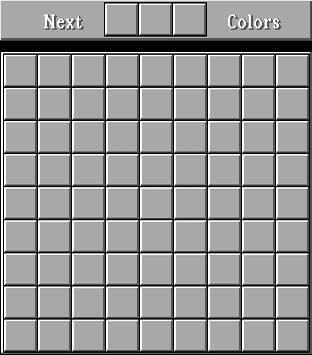
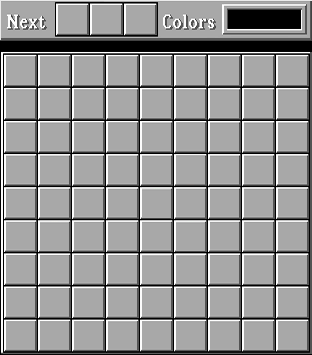
Lines (completed)

diff --git a/arrange/scripts/lines.js b/arrange/scripts/lines.js
@@ -135,8 +135,14 @@ Dagaz.Model.BuildDesign = function(design) {
     design.addPosition("g1", [0, 0, 0, 0, 1, -1, -8, -10, -9]);
     design.addPosition("h1", [0, 0, 0, 0, 1, -1, -8, -10, -9]);
     design.addPosition("i1", [0, 0, 0, 0, 0, -1, 0, -10, -9]);
+    design.addPosition("D6", [0, 0, 0, 0, 0, 0, 0, 0, 0]);
+    design.addPosition("D5", [0, 0, 0, 0, 0, 0, 0, 0, 0]);
+    design.addPosition("D4", [0, 0, 0, 0, 0, 0, 0, 0, 0]);
+    design.addPosition("D3", [0, 0, 0, 0, 0, 0, 0, 0, 0]);
+    design.addPosition("D2", [0, 0, 0, 0, 0, 0, 0, 0, 0]);
+    design.addPosition("D1", [0, 0, 0, 0, 0, 0, 0, 0, 0]);
 
-    design.addZone("preview-zone", 1, [0, 1, 2]);
+    design.addZone("preview-zone", 1, [0, 1, 2, 84, 85, 86, 87, 88, 89]);
     design.addZone("preview-1", 1, [0]);
     design.addZone("preview-2", 1, [1]);
     design.addZone("preview-3", 1, [2]);
@@ -165,46 +171,57 @@ Dagaz.Model.BuildDesign = function(design) {
     design.addCommand(4, ZRF.FUNCTION,	28);	// end
 
     design.addPiece("Dark", 0);
-    design.addDrop(0, 1, [], 1);
-    design.addDrop(0, 2, [], 2);
-    design.addDrop(0, 3, [], 3);
-    design.addDrop(0, 4, [], 4);
-    design.addDrop(0, 4, [], 5);
+    design.addDrop(0, 1, [], 1, 100);
+    design.addDrop(0, 2, [], 2, 100);
+    design.addDrop(0, 3, [], 3, 100);
+    design.addDrop(0, 4, [], 4, 100);
+    design.addDrop(0, 4, [], 5, 100);
 
     design.addPiece("Light", 1);
-    design.addDrop(1, 1, [], 1);
-    design.addDrop(1, 2, [], 2);
-    design.addDrop(1, 3, [], 3);
-    design.addDrop(1, 4, [], 4);
-    design.addDrop(1, 4, [], 5);
+    design.addDrop(1, 1, [], 1, 100);
+    design.addDrop(1, 2, [], 2, 100);
+    design.addDrop(1, 3, [], 3, 100);
+    design.addDrop(1, 4, [], 4, 100);
+    design.addDrop(1, 4, [], 5, 100);
 
     design.addPiece("Green", 2);
-    design.addDrop(2, 1, [], 1);
-    design.addDrop(2, 2, [], 2);
-    design.addDrop(2, 3, [], 3);
-    design.addDrop(2, 4, [], 4);
-    design.addDrop(2, 4, [], 5);
+    design.addDrop(2, 1, [], 1, 100);
+    design.addDrop(2, 2, [], 2, 100);
+    design.addDrop(2, 3, [], 3, 100);
+    design.addDrop(2, 4, [], 4, 100);
+    design.addDrop(2, 4, [], 5, 100);
 
     design.addPiece("Red", 3);
-    design.addDrop(3, 1, [], 1);
-    design.addDrop(3, 2, [], 2);
-    design.addDrop(3, 3, [], 3);
-    design.addDrop(3, 4, [], 4);
-    design.addDrop(3, 4, [], 5);
+    design.addDrop(3, 1, [], 1, 100);
+    design.addDrop(3, 2, [], 2, 100);
+    design.addDrop(3, 3, [], 3, 100);
+    design.addDrop(3, 4, [], 4, 100);
+    design.addDrop(3, 4, [], 5, 100);
 
     design.addPiece("Yellow", 4);
-    design.addDrop(4, 1, [], 1);
-    design.addDrop(4, 2, [], 2);
-    design.addDrop(4, 3, [], 3);
-    design.addDrop(4, 4, [], 4);
-    design.addDrop(4, 4, [], 5);
+    design.addDrop(4, 1, [], 1, 100);
+    design.addDrop(4, 2, [], 2, 100);
+    design.addDrop(4, 3, [], 3, 100);
+    design.addDrop(4, 4, [], 4, 100);
+    design.addDrop(4, 4, [], 5, 100);
 
     design.addPiece("Purple", 5);
-    design.addDrop(5, 1, [], 1);
-    design.addDrop(5, 2, [], 2);
-    design.addDrop(5, 3, [], 3);
-    design.addDrop(5, 4, [], 4);
-    design.addDrop(5, 4, [], 5);
+    design.addDrop(5, 1, [], 1, 100);
+    design.addDrop(5, 2, [], 2, 100);
+    design.addDrop(5, 3, [], 3, 100);
+    design.addDrop(5, 4, [], 4, 100);
+    design.addDrop(5, 4, [], 5, 100);
+
+    design.addPiece("N0", 6);
+    design.addPiece("N1", 7);
+    design.addPiece("N2", 8);
+    design.addPiece("N3", 9);
+    design.addPiece("N4", 10);
+    design.addPiece("N5", 11);
+    design.addPiece("N6", 12);
+    design.addPiece("N7", 13);
+    design.addPiece("N8", 14);
+    design.addPiece("N9", 15);
 }
 
 Dagaz.View.configure = function(view) {
@@ -215,10 +232,20 @@ Dagaz.View.configure = function(view) {
     view.defPiece("YouRed", "You Red");
     view.defPiece("YouYellow", "You Yellow");
     view.defPiece("YouPurple", "You Purple");
+    view.defPiece("YouN0", "You N0");
+    view.defPiece("YouN1", "You N1");
+    view.defPiece("YouN2", "You N2");
+    view.defPiece("YouN3", "You N3");
+    view.defPiece("YouN4", "You N4");
+    view.defPiece("YouN5", "You N5");
+    view.defPiece("YouN6", "You N6");
+    view.defPiece("YouN7", "You N7");
+    view.defPiece("YouN8", "You N8");
+    view.defPiece("YouN9", "You N9");
  
-    view.defPosition("X1", 108, 5, 25, 27);
-    view.defPosition("Y1", 142, 5, 25, 27);
-    view.defPosition("Z1", 176, 5, 25, 27);
+    view.defPosition("X1", 60, 5, 25, 27);
+    view.defPosition("Y1", 94, 5, 25, 27);
+    view.defPosition("Z1", 128, 5, 25, 27);
     view.defPosition("a9", 7, 57, 25, 27);
     view.defPosition("b9", 41, 57, 25, 27);
     view.defPosition("c9", 75, 57, 25, 27);
@@ -300,4 +327,10 @@ Dagaz.View.configure = function(view) {
     view.defPosition("g1", 211, 321, 25, 27);
     view.defPosition("h1", 245, 321, 25, 27);
     view.defPosition("i1", 279, 321, 25, 27);
+    view.defPosition("D6", 235, 11, 10, 17);
+    view.defPosition("D5", 246, 11, 10, 17);
+    view.defPosition("D4", 257, 11, 10, 17);
+    view.defPosition("D3", 268, 11, 10, 17);
+    view.defPosition("D2", 279, 11, 10, 17);
+    view.defPosition("D1", 290, 11, 10, 17);
 }

diff --git a/arrange/lines.htm b/arrange/lines.htm
@@ -12,6 +12,16 @@
 <img id="YouRed" style="display:none" src="images/lines/red.png">
 <img id="YouYellow" style="display:none" src="images/lines/yellow.png">
 <img id="YouPurple" style="display:none" src="images/lines/purple.png">
+<img id="YouN0" style="display:none" src="images/lines/0.png">
+<img id="YouN1" style="display:none" src="images/lines/1.png">
+<img id="YouN2" style="display:none" src="images/lines/2.png">
+<img id="YouN3" style="display:none" src="images/lines/3.png">
+<img id="YouN4" style="display:none" src="images/lines/4.png">
+<img id="YouN5" style="display:none" src="images/lines/5.png">
+<img id="YouN6" style="display:none" src="images/lines/6.png">
+<img id="YouN7" style="display:none" src="images/lines/7.png">
+<img id="YouN8" style="display:none" src="images/lines/8.png">
+<img id="YouN9" style="display:none" src="images/lines/9.png">
 
 <table style="margin:auto; font-family:sans-serif; font-size:14px" id="Table">
 <tr style="height:405px; vertical-align:top">
@@ -44,6 +54,7 @@
 <script src="../common-scripts/common-setup-v2.js"></script>
 <script src="../common-scripts/2d-view-v2.js"></script>
 <script src="../common-scripts/move-list-v2.js"></script>
+<script src="../common-scripts/sound-manager-v2.js"></script>
 <script src="scripts/lines-extension.js"></script>
 <script src="scripts/lines-drops.js"></script>
 <script src="scripts/lines.js"></script>

diff --git a/arrange/scripts/lines-drops.js b/arrange/scripts/lines-drops.js
@@ -8,6 +8,26 @@ Dagaz.Model.checkVersion = function(design, name, value) {
   }
 }
 
+if (!_.isUndefined(Dagaz.Controller.addSound)) {
+    Dagaz.Controller.addSound(1, "../sounds/steps.ogg", true);
+    Dagaz.Controller.addSound(2, "../sounds/open.ogg", true);
+}
+
+Dagaz.View.showBoard = function(board, ctx) {
+  var view = Dagaz.Controller.app.view;
+  var score = board.getValue(0);
+  if (score === null) {
+      score = 0;
+  }
+  for (var pos = 89; pos >= 84; pos--) {
+       var t = score % 10;
+       var r = view.piece["You N" + t];
+       var p = view.pos[pos];
+       ctx.drawImage(r.h, p.x, p.y, r.dx, r.dy);
+       score = (score / 10) | 0;
+  }
+}
+
 var tryDir = function(design, board, player, pos, dir, type, group) {
   var p = design.navigate(player, pos, dir);
   while (p !== null) {
@@ -61,6 +81,8 @@ Dagaz.Model.CheckInvariants = function(board) {
                  move.capturePiece(pos, 1);
               });
               move.goTo(6);
+              move.addValue(0, captures.length * (captures.length - 4));
+              move.sound = 2;
           }
       }
   });

diff --git a/arrange/scripts/lines-extension.js b/arrange/scripts/lines-extension.js
@@ -50,6 +50,7 @@ Dagaz.Model.CheckInvariants = function(board) {
                 move.hints.shift();
                 move.movePiece(pos, group[i], piece);
                 move.mode = 0;
+                move.sound = 1;
                 board.moves.push(move);
            }
        }
